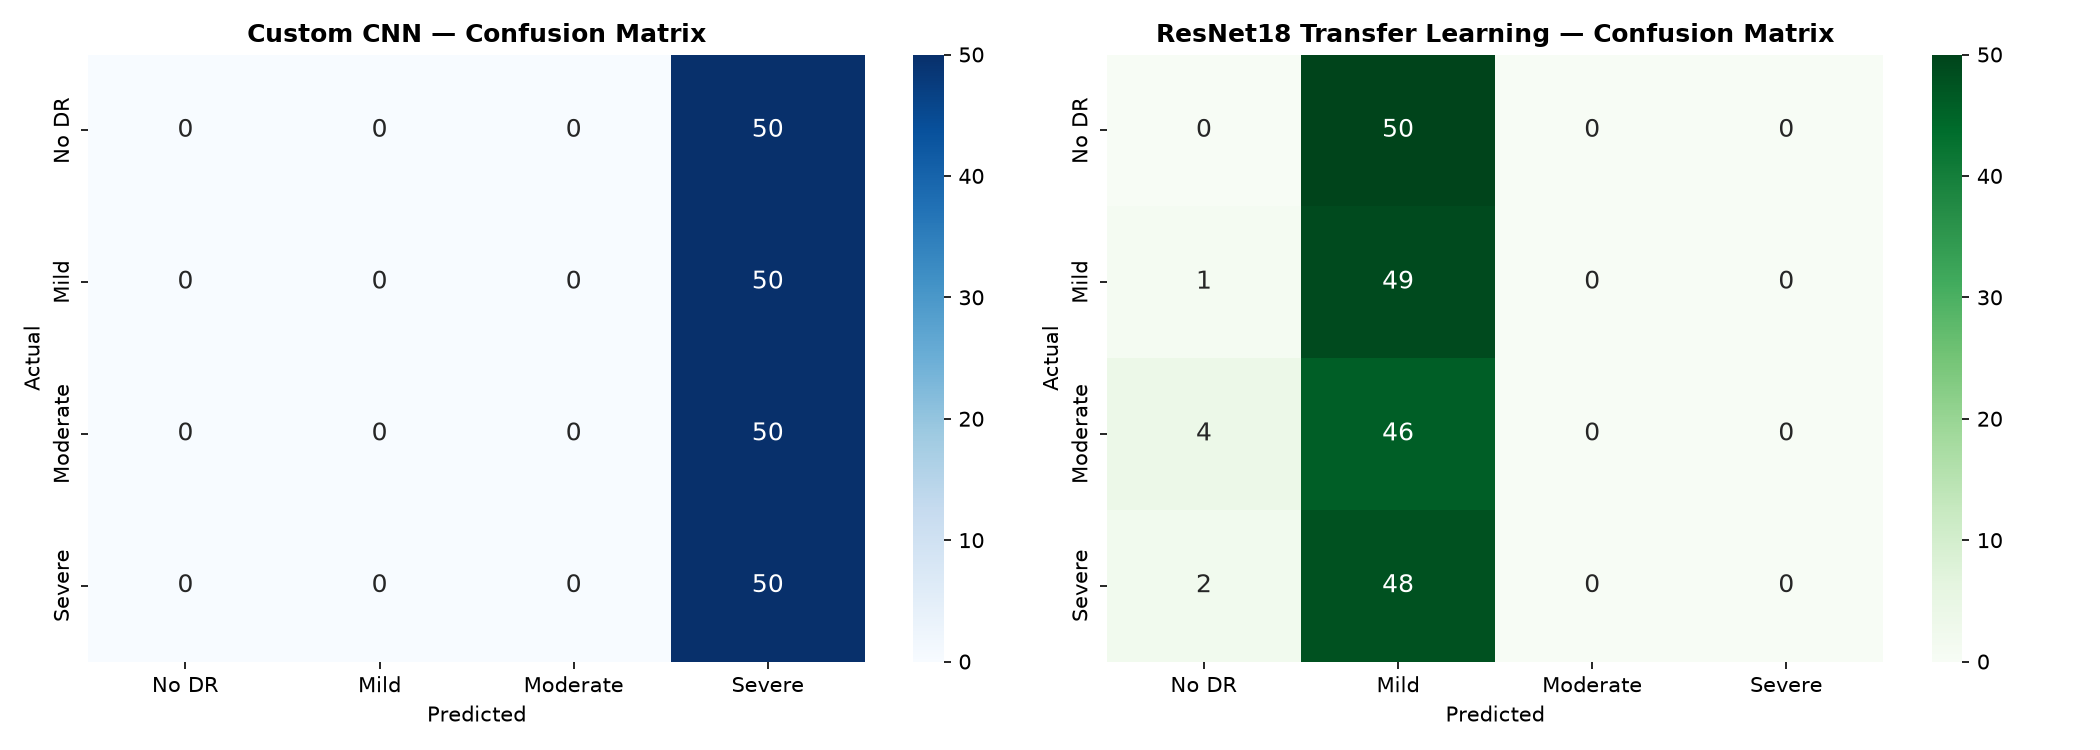
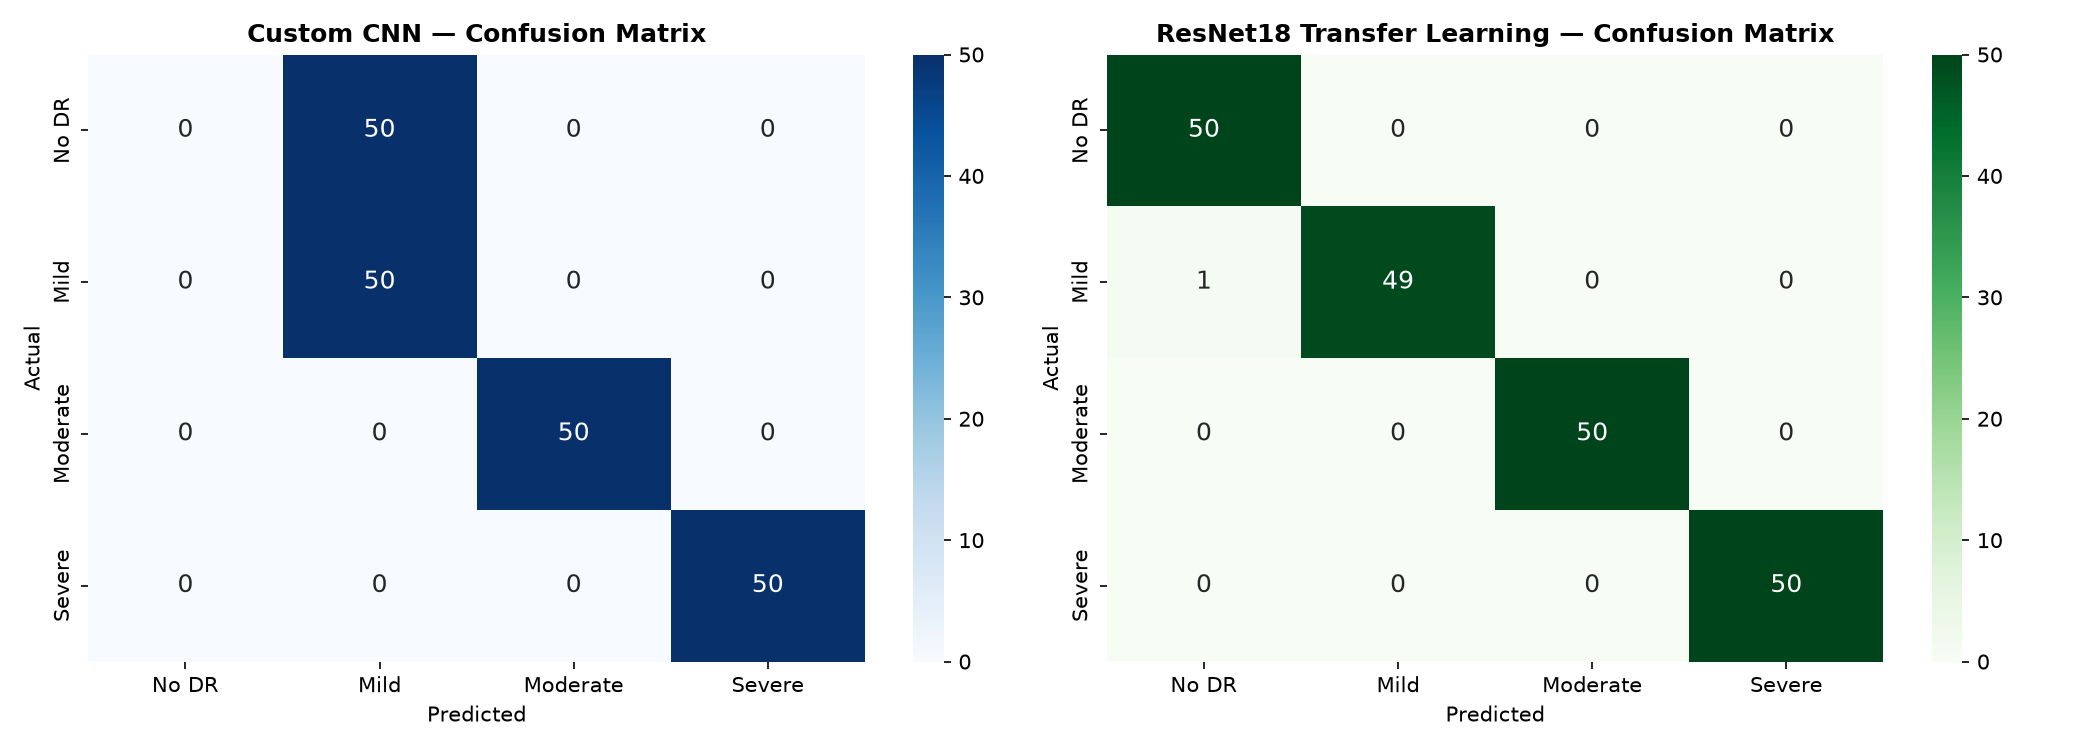
Level 1 Day 3 Final DL Training & Benchmark Evaluation (ResNet18 Test Acc 99.5%)

Changed region(s): [[0.1238, 0.0613, 0.4333, 0.7053], [0.619, 0.46, 0.8976, 0.8893], [0.5262, 0.0613, 0.7119, 0.276]]

diff --git a/reports/dl_model_comparison_report.md b/reports/dl_model_comparison_report.md
@@ -11,8 +11,8 @@
 
 | Model                        |   Test Accuracy |   Macro F1 |   No DR Recall |   Mild DR Recall |   Moderate DR Recall |   Severe DR Recall |
 |:-----------------------------|----------------:|-----------:|---------------:|-----------------:|---------------------:|-------------------:|
-| Custom CNN (From Scratch)    |           0.25  |     0.1    |              0 |             0    |                    0 |                  1 |
-| ResNet18 (Transfer Learning) |           0.245 |     0.1008 |              0 |             0.98 |                    0 |                  0 |
+| Custom CNN (From Scratch)    |           0.75  |     0.6667 |              0 |             1    |                    1 |                  1 |
+| ResNet18 (Transfer Learning) |           0.995 |     0.995  |              1 |             0.98 |                    1 |                  1 |
 
 ---
 